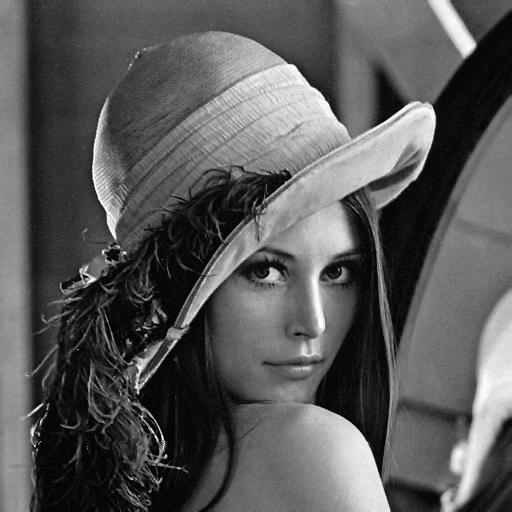
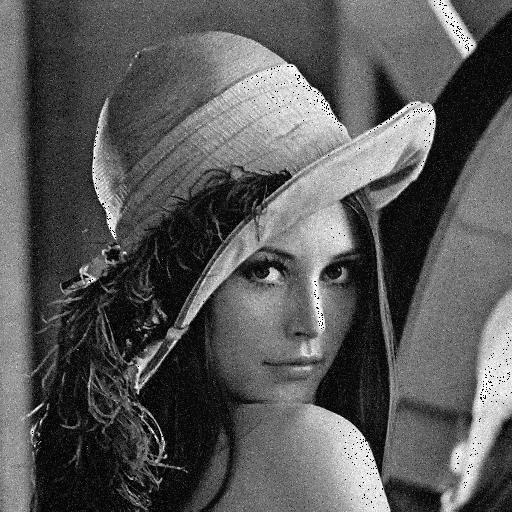
Fixing MSE

diff --git a/src/main/Image.java b/src/main/Image.java
@@ -13,6 +13,7 @@ public class Image {
 
     //Matrice de l'image
     private int[][] matrix;
+    private int[][] noisedmatrix;
 
     //Variance du bruit ajouté à l'image
     private int sigma;
@@ -24,19 +25,14 @@ public class Image {
 
     //Ajoute un bruit gaussien de variance sigma
     public void noising() {
+        this.noisedmatrix = new int[this.matrix.length][this.matrix[0].length];
         Random rand = new Random(123);
         for (int i=0; i<this.matrix.length; i++) {
             for (int j = 0; j<this.matrix[0].length; j++) {
                 int coef = this.matrix[i][j];
-                this.matrix[i][j] = Math.abs((coef + (int) rand.nextGaussian()*sigma)%255); 
-                System.out.println(this.matrix[i][j]);
+                this.noisedmatrix[i][j] = Math.abs((coef + (int) (rand.nextGaussian()*sigma))%255); 
             }
         }
-        System.out.println(this.matrix[0][0]);
-    }
-
-    private int floor(double d) {
-        return 0;
     }
 
     public int[][] getMatrix() {
@@ -45,6 +41,14 @@ public class Image {
 
     public void setMatrix(int[][] matrix) {
         this.matrix = matrix;
+    }
+
+    public int[][] getNoisedMatrix() {
+        return this.noisedmatrix;
+    }
+
+    public void setNoisedMatrix(int[][] matrix) {
+        this.noisedmatrix = matrix;
     }
 
     //Créer une matrice à partir d'un fichier image
@@ -92,13 +96,13 @@ public class Image {
         return gris;
     }
 
-    public BufferedImage createImageFromMatrix(int[][] matrix) {
-        BufferedImage image = new BufferedImage(matrix.length, matrix[0].length, BufferedImage.TYPE_INT_RGB);
+    public BufferedImage createImageFromMatrix() {
+        BufferedImage image = new BufferedImage(this.noisedmatrix.length, this.noisedmatrix[0].length, BufferedImage.TYPE_INT_RGB);
         try {
             
-            for(int i=0; i<matrix.length; i++) {
-                for(int j=0; j<matrix[0].length; j++) {
-                    int a = matrix[i][j];
+            for(int i=0; i<this.noisedmatrix.length; i++) {
+                for(int j=0; j<this.noisedmatrix[0].length; j++) {
+                    int a = this.noisedmatrix[i][j];
                     Color newColor = new Color(a,a,a);
                     image.setRGB(i,j,newColor.getRGB());
                 }

diff --git a/src/main/Error.java b/src/main/Error.java
@@ -1,5 +1,6 @@
 package src.main;
 
+import java.awt.image.BufferedImage;
 import java.lang.Math;
 
 public class Error{
@@ -10,18 +11,19 @@ public class Error{
         Image test1 = new Image(path, sigma);
         this.matrice1 = test1.getMatrix();
         test1.noising();
-        this.matrice2 = test1.getMatrix();
+        this.matrice2 = test1.getNoisedMatrix();
     }
 
     public float MeanSquaredError(){
-        int MSE = 0;
+        float MSE = 0;
         
         for ( int i = 0 ; i < this.matrice1.length ; i++){
             for ( int j = 0 ; j < this.matrice1[0].length ; j++){
-                MSE = MSE + this.matrice1[i][j] - this.matrice2[i][j];
+                System.out.println(this.matrice1[i][j] + "," + this.matrice2[i][j]);
+                MSE = MSE + (this.matrice1[i][j] - this.matrice2[i][j])*(this.matrice1[i][j] - this.matrice2[i][j]);
+                System.out.println(MSE);
             }
         }
-        System.out.println(MSE);
         MSE = MSE / (matrice1.length*this.matrice1[0].length);
         return(MSE);
     }

diff --git a/src/main/Main.java b/src/main/Main.java
@@ -4,12 +4,12 @@ import java.awt.image.BufferedImage;
 
 public class Main {
     public static void main(String[] args) {
-        // Image image = new Image("src/main/lenaa.png", 2);
-        // System.out.println(image.getMatrix());
-        // BufferedImage newImage = image.createImageFromMatrix(image.getMatrix());
+        // Image image = new Image("src/main/lenaa.png", 20);
+        // image.noising();
+        // BufferedImage newImage = image.createImageFromMatrix();
         // image.createfile(newImage);
 
-        Error error = new Error("src/main/lenaa.png", 20);
+        Error error = new Error("src/main/lenaa.png", 200);
         System.out.println(error.MeanSquaredError());
     }
 
